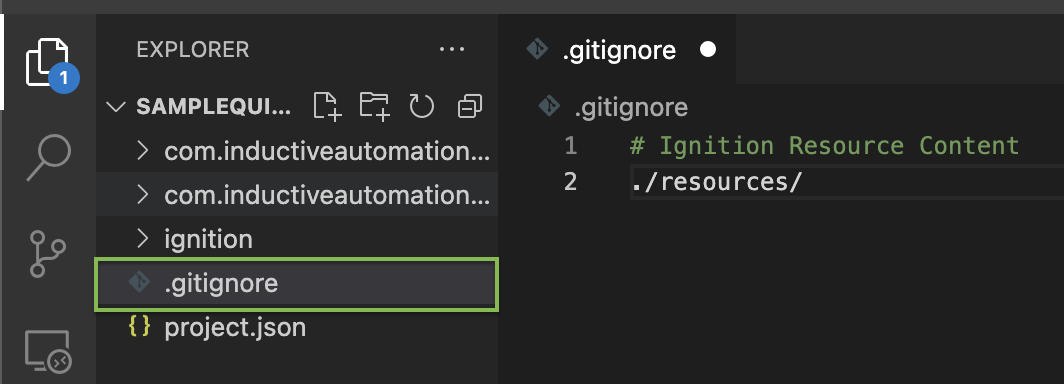
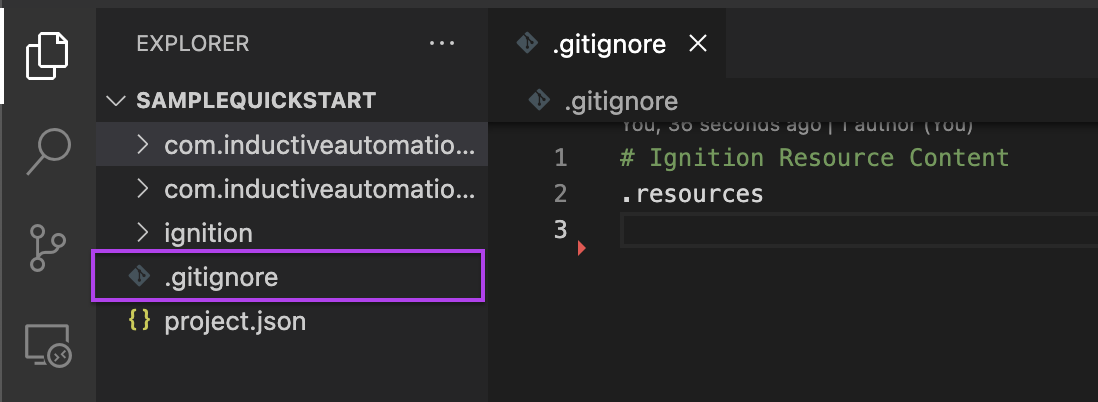
Feature/fix typos (#12)
* Fix: Issue #1

* Fix: Closes #2

* Fix: Closes #4

* Fix: closes #5

* Fix: Closes #6

* Fix: Closes #8

* Fix: Closes #9

diff --git a/readme.md b/readme.md
@@ -26,19 +26,22 @@ This is a _Getting Started_ tutorial intended for those who are new or newer to 
   In order to perform version control on Ignition, ensure the following are properly set up or installed:
 
 ### Required
+  - IA VPN connection
+    - Only required if using on prem GitHub
   - [Ignition](https://inductiveautomation.com/downloads/)
     - Either in a Docker container or installed on host
   - [Git](https://git-scm.com/downloads)
     - Installed on host
-
-### Recommended
-  - [Visual Studio Code](https://code.visualstudio.com/Download)
-    - Highly recommended (VSCode setup guide coming soon!)
   - [GitHub](https://github.com) access
     - Log in via [Duo](https://ia.login.duosecurity.com/central/)
     - Search for "Github Enterprise (on prem)"
     - If Enterprise github is not available, ask your manager for access, and get started with a personal account for the time being
       - Do not put any IA material on your personal GitHub account. This is an exception made for training purposes only.
+
+### Recommended
+  - [Visual Studio Code](https://code.visualstudio.com/Download) (VS Code)
+    - Highly recommended (VSCode setup guide coming soon!)
+    - This guide specifically references VS Code and will make following along easier.
 
 > :bulb: **_FAQ_**: What if I don't have access to the on prem Github Enterprise server yet?
 >
@@ -68,7 +71,7 @@ The goal of this exercise is to focus on version control and how it works with I
 ![Integrated Terminal](images/integrated-terminal.png)
    1. Within the terminal, verify you are in the correct directory by typing the command `pwd` (`P`rint `W`orking `D`irectory). This directory should be within the project name, `samplequickstart`.
       - For Mac the directory should be: `/usr/local/ignition/data/projects/samplequickstart`
-      - For Windows the directory should be: `C://Program Files Inductive Automation/Ignition/data/projects/samplequickstart`
+      - For Windows the directory should be: `C:\Program Files\Inductive Automation\Ignition\data\projects\samplequickstart`
 #### Log in to Github
 Login to Github with the integrated terminal by running the following commands:
 
@@ -82,7 +85,7 @@ git config --global user.email "your@email.addr"
 1. At the top level of your directory, create and save a file named `.gitignore` with the following code:
     ```python
     # Ignition Resource Content
-    ./resources/
+    .resources
     ```
     ![gitignore](images/gitignore.png)
    -  This will ignore all of Ignition's resource files, which frequently change and do not need to be version controlled
@@ -119,14 +122,16 @@ git config --global user.email "your@email.addr"
 - `git remote add origin <Repository Link>`: 
   - `remote add` refers to adding a location where the work is stored. In this case, it is held remotely on GitHub.
   - `origin` is an alias for a particular repository. In this case, the link you have added.
-  - `<Repository Link>` is the repository which will be herein referred to as `origin`. The link to your repository is is a combination of the github url, your username (or the organization the repo is made under), and the name of your repository. In the example, the url is: `https://inductive-git.ia.local/eknorr/git-ignition-example`.
+  - `<Repository Link>` is the repository which will be herein referred to as `origin`. The link to your repository is a combination of the github url, your username (or the organization the repo is made under), and the name of your repository. In the example, the url is: `https://inductive-git.ia.local/eknorr/git-ignition-lab.git`.
 - `git add .`:
   - `add .` adds the work you have done in the current directory to the staging area. Because the repository has no previous commits, this will be many Ignition files. The `.` is used to chose all changed files of the directory you are working in.
 - `git commit -m "Initial commit"`:
   - `commit` is the command for committing your work. A commit is good to do regularly, it allows for going back to the exact state of your work at the time of the commit.
   - `-m "Initial commit"` adds a message to the commit. In this case, the message is "Initial commit". It is important to be specific when writing the messages as it becomes difficult to remember what each commit was for and can be confusing if there was ever a need to rollback to a specific commit.
   - Without the `-m` it will open a text editor with a file that you can type the message into.
-- `git push origin main` allows for pushing all of the commits to the remote main.
+- `git push -u origin main` allows for pushing all of the commits to the remote main.
+  - `-u` links a local branch to a remote branch for subsequent push/pull commands. The local branch you push is automatically linked with the remote branch. In this case, whenever you `git push` or `git pull` after this first command, git knows the upstream branch to your local `main` branch is `origin/main`.
+  - After the first time pushing to a branch, the `-u` flag is not needed, and pushing new code can be accomplished by `git push`.
 
 
 You have just made and initialized a GitHub repository. To verify, you can go to your GitHub account and see the new repository. Below is an example
@@ -242,7 +247,7 @@ The goal of the pull request is to only have intended changes present. This mean
     - From here search the project for the characters ">>". This will show all conflicts. For every conflict, select whether you wand the HEAD or incoming version, save, and commit.
     - Push your code out with these newly resolved conflicts and look at GitHub to verify there are no more conflicts. 
   - **Missing File:** Sometimes you will accidentally delete a file you didn't mean to. To fix this, use the following command: ```git checkout origin/branch_to_merge_with path/to/deleted/file```. For example, ```git checkout origin/main ignition/script-python/Example/code.py``` will add back the main branch version of `Example/code.py`.
-  - **Reset to Previous Commit:** In the case you want to go back to a previous commit, find the commit you whish to go back to. Then use this command `git reset <commit id>`. This would look something like: `git reset e0b5ab11f1eeac6116b5a7abf4cbdf9b12f26990`.
+  - **Reset to Previous Commit:** In the case you want to go back to a previous commit, find the commit you wish to go back to. Then use this command `git reset <commit id>`. This would look something like: `git reset e0b5ab11f1eeac6116b5a7abf4cbdf9b12f26990`.
     - The commit id can be found by clicking the "commit" link in the right hand corner of the GitHub branch that would contain your commit, or by running `git log`
       - To get out of `git log`, type `q`
 
